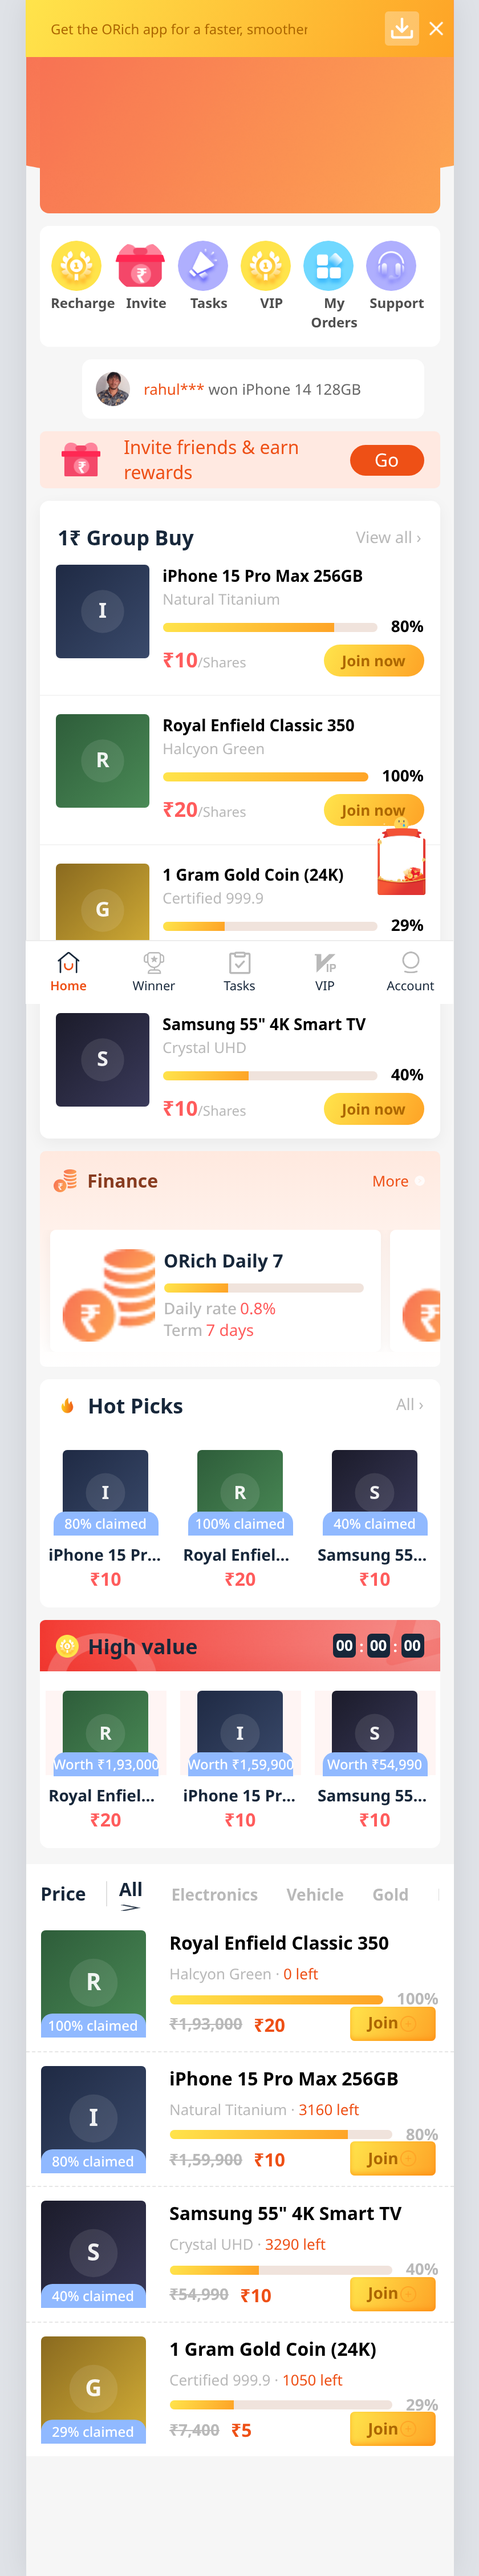
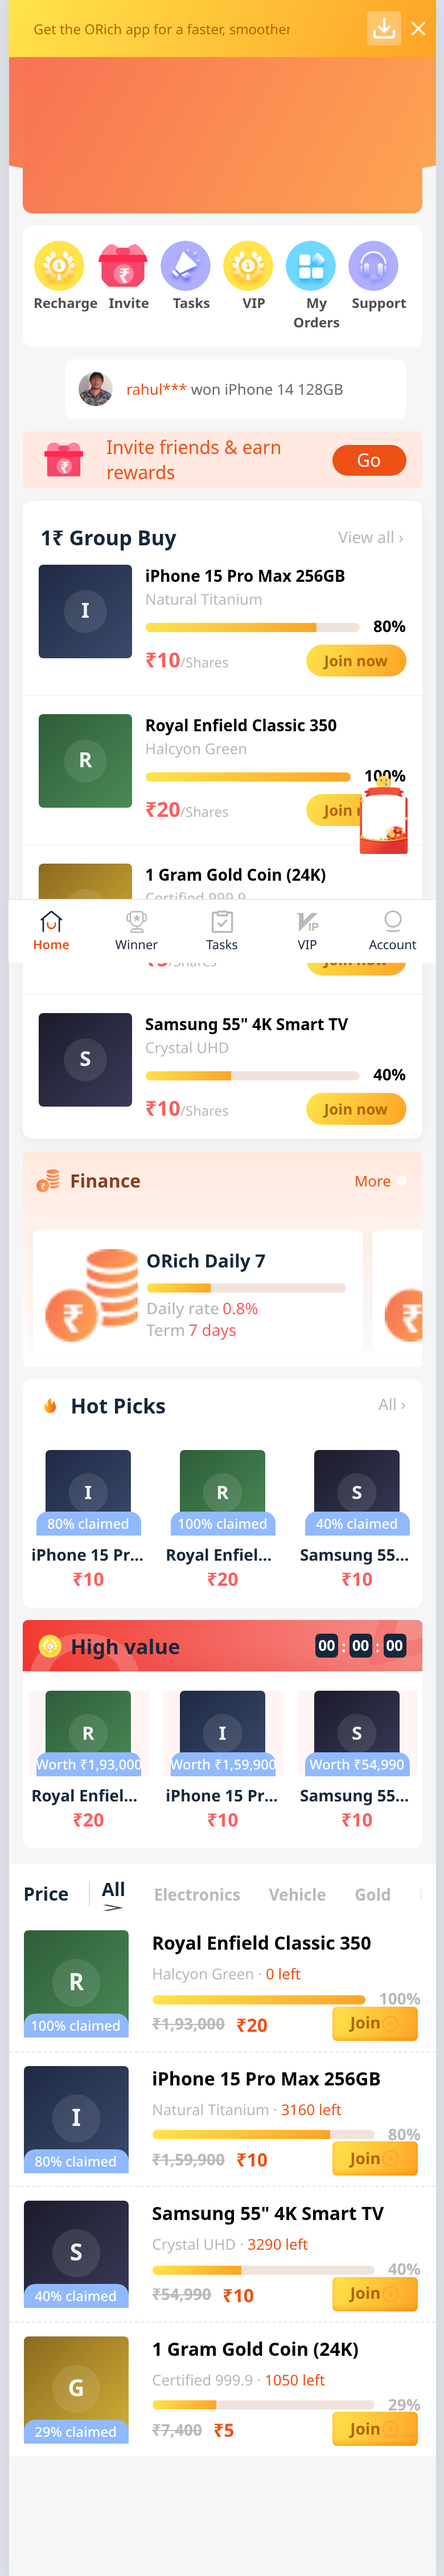
APK parity: in-app notifications center (push equivalent) with bell+unread+admin send, OTA version-update check, analytics event tracking with admin Events; wire track on login/join/recharge

diff --git a/app/src/i18n/index.js b/app/src/i18n/index.js
@@ -8,7 +8,7 @@ const en = {
   home: { notice: 'Notice', hot: 'Hot Picks', groupBuy: '1₹ Group Buy', latestWinners: 'Latest Winners', viewAll: 'View all', joined: 'joined', remaining: 'left' },
   product: { marketValue: 'Market value', perShare: 'Per share', progress: 'Progress', shares: 'Shares', total: 'Total', joinNow: 'Join now', ongoing: 'Ongoing', drawing: 'Drawing', done: 'Completed' },
   login: { title: 'Login', tips: 'Sign in or create your account', phone: 'Phone Number', phonePh: 'Enter phone number', code: 'Verification Code', codePh: 'Enter code', send: 'Send OTP', invite: 'Invite code (optional)', action: 'Login', terms: 'By continuing you agree to the', rules: 'Terms & Privacy Policy' },
-  account: { wallet: 'Wallet', withdraw: 'Withdraw', team: 'My Team', funding: 'Fund Records', finance: 'Finance', orders: 'My Orders', help: 'Help & FAQ', settings: 'Settings', about: 'About Us', service: 'Customer Service', invite: 'Invite Friends', signOut: 'Sign out', frozen: 'Frozen', waiting: 'Waiting', toconfirm: 'To Confirm', delivery: 'In Delivery', received: 'Received' },
+  account: { wallet: 'Wallet', withdraw: 'Withdraw', team: 'My Team', funding: 'Fund Records', finance: 'Finance', orders: 'My Orders', help: 'Help & FAQ', settings: 'Settings', about: 'About Us', service: 'Customer Service', invite: 'Invite Friends', notifications: 'Notifications', signOut: 'Sign out', frozen: 'Frozen', waiting: 'Waiting', toconfirm: 'To Confirm', delivery: 'In Delivery', received: 'Received' },
   recharge: { title: 'Recharge', choose: 'Choose amount', custom: 'Custom amount', pay: 'Pay now', success: 'Recharge successful' },
   winner: { title: 'Winners', mine: 'My Wins', code: 'Lucky code', shares: 'shares', congrats: 'Congratulations on winning!', signinMine: 'Please sign in to see your wins' },
   finance: { title: 'Finance', rate: 'Daily rate', days: 'Term', min: 'Min', invest: 'Invest', amount: 'Amount', confirm: 'Confirm investment', sub: 'Grow your balance with daily returns', day: 'day', projected: 'Projected return' },
@@ -25,7 +25,7 @@ const hi = {
   home: { notice: 'सूचना', hot: 'हॉट पिक्स', groupBuy: '₹1 ग्रुप बाय', latestWinners: 'नए विजेता', viewAll: 'सभी देखें', joined: 'शामिल', remaining: 'बाकी' },
   product: { marketValue: 'बाज़ार मूल्य', perShare: 'प्रति शेयर', progress: 'प्रगति', shares: 'शेयर', total: 'कुल', joinNow: 'अभी शामिल हों', ongoing: 'जारी', drawing: 'ड्रॉ', done: 'पूर्ण' },
   login: { title: 'लॉगिन', tips: 'साइन इन करें या खाता बनाएँ', phone: 'फ़ोन नंबर', phonePh: 'फ़ोन नंबर डालें', code: 'सत्यापन कोड', codePh: 'कोड डालें', send: 'OTP भेजें', invite: 'इनवाइट कोड (वैकल्पिक)', action: 'लॉगिन', terms: 'जारी रखने पर आप सहमत हैं', rules: 'नियम व गोपनीयता नीति' },
-  account: { wallet: 'वॉलेट', withdraw: 'निकासी', team: 'मेरी टीम', funding: 'फंड रिकॉर्ड', finance: 'फाइनेंस', orders: 'मेरे ऑर्डर', help: 'मदद व सवाल', settings: 'सेटिंग्स', about: 'हमारे बारे में', service: 'कस्टमर सेवा', invite: 'दोस्तों को बुलाएँ', signOut: 'साइन आउट', frozen: 'फ्रोज़न', waiting: 'प्रतीक्षा', toconfirm: 'पुष्टि', delivery: 'डिलीवरी', received: 'प्राप्त' },
+  account: { wallet: 'वॉलेट', withdraw: 'निकासी', team: 'मेरी टीम', funding: 'फंड रिकॉर्ड', finance: 'फाइनेंस', orders: 'मेरे ऑर्डर', help: 'मदद व सवाल', settings: 'सेटिंग्स', about: 'हमारे बारे में', service: 'कस्टमर सेवा', invite: 'दोस्तों को बुलाएँ', notifications: 'सूचनाएँ', signOut: 'साइन आउट', frozen: 'फ्रोज़न', waiting: 'प्रतीक्षा', toconfirm: 'पुष्टि', delivery: 'डिलीवरी', received: 'प्राप्त' },
   recharge: { title: 'रिचार्ज', choose: 'राशि चुनें', custom: 'कस्टम राशि', pay: 'अभी भुगतान करें', success: 'रिचार्ज सफल' },
   winner: { title: 'विजेता', mine: 'मेरी जीत', code: 'लकी कोड', shares: 'शेयर', congrats: 'जीतने की बधाई!', signinMine: 'अपनी जीत देखने के लिए साइन इन करें' },
   finance: { title: 'फाइनेंस', rate: 'दैनिक दर', days: 'अवधि', min: 'न्यूनतम', invest: 'निवेश', amount: 'राशि', confirm: 'निवेश की पुष्टि करें', sub: 'रोज़ के रिटर्न से बैलेंस बढ़ाएँ', day: 'दिन', projected: 'अनुमानित रिटर्न' },

diff --git a/server/index.js b/server/index.js
@@ -294,6 +294,28 @@ const userRoutes = {
   '/index/itemshare': (b) => ok({ link: 'https://orich.example/order/' + (b.id || ''), poster: store.img('goods/ing_Successfulpurchase.png') }),
   '/index/userinvitetop': () => ok({ list: inviteTop() }),
 
+  // ---------- APK parity: push notifications / OTA update / analytics ----------
+  '/index/notifications': (b, ctx) => {
+    const s = store.get(); const u = ctx && ctx.user && ctx.user.user;
+    const read = new Set((u && u.readNotifs) || []);
+    const list = s.notifications.map((n) => ({ ...n, read: read.has(n.id) }));
+    return ok({ list, unread: list.filter((n) => !n.read).length });
+  },
+  '/index/notifyread': (b, ctx) => {
+    const u = ctx.user.user; u.readNotifs = u.readNotifs || [];
+    if (b.id) { if (!u.readNotifs.includes(Number(b.id))) u.readNotifs.push(Number(b.id)); }
+    else { u.readNotifs = store.get().notifications.map((n) => n.id); }
+    store.save(); return ok({}, 'Marked read');
+  },
+  '/index/checkupdate': () => { const u = seed.appUpdate; return ok({ ...u, hasUpdate: u.latest !== u.version }); },
+  '/index/track': (b, ctx) => {
+    const s = store.get(); s.events = s.events || [];
+    const uid = ctx && ctx.user && ctx.user.user ? ctx.user.user.id : null;
+    s.events.push({ name: String(b.name || 'event'), props: b.props || {}, userId: uid, ts: Date.now() });
+    if (s.events.length > 2000) s.events = s.events.slice(-2000);
+    store.save(); return ok({ logged: true });
+  },
+
   // ---------- APK parity: authed records / edits / actions ----------
   '/index/userrebatelist': (b, ctx) => ok({ list: rebateList(ctx.user.user) }),
   '/index/userconsume': (b, ctx) => ok({ list: store.get().orders.filter((o) => o.userId === ctx.user.user.id && o.type !== 'recharge').reverse() }),
@@ -430,7 +452,7 @@ const USER_AUTH = new Set(['/index/useraccount', '/index/userbalance', '/index/a
   // APK-parity authed endpoints
   '/index/userrebatelist', '/index/userconsume', '/index/useritem', '/index/getUserAfs', '/index/editAfStatus',
   '/index/itemdetail', '/index/itemedit', '/index/itemdefaultaddr', '/index/addorderpay', '/index/joinactivity',
-  '/index/bankedit', '/index/addressedit', '/index/addresschangedefault']);
+  '/index/bankedit', '/index/addressedit', '/index/addresschangedefault', '/index/notifyread']);
 
 // ----------------------------- admin API -----------------------------
 const COLLECTIONS = { products: 'product', winners: 'winner', finances: 'finance', tasks: null, vipTiers: 'vip', luckyDraws: 'lucky' };
@@ -457,6 +479,8 @@ const adminRoutes = {
       withdraw: sum('withdraw').toFixed(2),
       pendingWithdraw: s.orders.filter((o) => o.type === 'withdraw' && o.status === 'pending').length,
       pendingRecharge: s.orders.filter((o) => o.type === 'recharge' && o.status === 'pending').length,
+      notifications: (s.notifications || []).length,
+      events: (s.events || []).length,
       settings: s.settings,
     });
   },
@@ -522,6 +546,17 @@ const adminRoutes = {
     return ok({ order: o }, 'Order updated');
   },
   'POST /orders/delete': (b) => { const s = store.get(); s.orders = s.orders.filter((x) => x.id !== Number(b.id)); store.save(); return ok({}, 'Order deleted'); },
+  'POST /notify/send': (b) => {
+    const s = store.get();
+    const n = { id: store.nextId('notification'), type: b.type || 'system', title: b.title || 'Notice', body: b.body || '', date: new Date().toISOString().slice(0, 16).replace('T', ' ') };
+    s.notifications.unshift(n); store.save();
+    return ok({ notification: n }, 'Notification sent');
+  },
+  'GET /events': () => {
+    const s = store.get(); const ev = s.events || [];
+    const counts = {}; ev.forEach((e) => { counts[e.name] = (counts[e.name] || 0) + 1; });
+    return ok({ total: ev.length, counts, recent: ev.slice(-30).reverse() });
+  },
   'GET /orders': (b) => {
     let list = store.get().orders;
     if (b.type) list = list.filter((o) => o.type === b.type);

diff --git a/app/src/views/Notifications.vue b/app/src/views/Notifications.vue
@@ -1,0 +1,69 @@
+<script setup>
+import { onMounted, ref } from 'vue';
+import NavBar from '../components/NavBar.vue';
+import { api } from '../api/client';
+import { useAuth } from '../stores/auth';
+import { useToast } from '../components/useToast';
+
+const auth = useAuth();
+const { toast } = useToast();
+const list = ref([]);
+const unread = ref(0);
+
+const ICON = {
+  winner: '/static/image/home/icon_Winner.png',
+  promo: '/static/image/home/icon_Promotion.png',
+  order: '/static/image/home/icon_MyOrders.png',
+  system: '/static/image/home/icon_Support.png',
+};
+
+async function load() {
+  const d = await api.notifications();
+  list.value = d.list || [];
+  unread.value = d.unread || 0;
+}
+onMounted(load);
+
+async function open(n) {
+  if (!n.read && auth.isLoggedIn) {
+    try { await api.notifyRead(n.id); n.read = true; unread.value = Math.max(0, unread.value - 1); } catch { /* ignore */ }
+  }
+}
+async function readAll() {
+  if (!auth.isLoggedIn) return toast('Please sign in');
+  try { await api.notifyRead(); await load(); toast('All marked read'); } catch (e) { toast(e.message); }
+}
+</script>
+
+<template>
+  <div class="notis">
+    <NavBar title="Notifications" :right="unread ? 'Read all' : ''" @right="readAll" />
+    <div class="list">
+      <div v-for="n in list" :key="n.id" class="item" :class="{ unread: !n.read }" @click="open(n)">
+        <div class="ic"><img :src="ICON[n.type] || ICON.system" alt="" /><i v-if="!n.read" class="dot"></i></div>
+        <div class="body">
+          <div class="top"><span class="title">{{ n.title }}</span><span class="date">{{ n.date }}</span></div>
+          <div class="text">{{ n.body }}</div>
+        </div>
+      </div>
+      <div v-if="!list.length" class="empty"><img src="/static/image/nodata.png" alt="" /><p>No notifications</p></div>
+    </div>
+  </div>
+</template>
+
+<style scoped>
+.notis { min-height: 100vh; background: #f6f6f6; }
+.list { padding: 8px 0; }
+.item { display: flex; gap: 12px; padding: 14px 16px; background: #fff; margin-bottom: 8px; }
+.item.unread { background: #fffaf7; }
+.ic { position: relative; width: 42px; height: 42px; flex-shrink: 0; border-radius: 50%; background: #fdeee6; display: flex; align-items: center; justify-content: center; }
+.ic img { width: 24px; height: 24px; object-fit: contain; }
+.ic .dot { position: absolute; top: 0; right: 0; width: 9px; height: 9px; border-radius: 50%; background: #ff5c5c; border: 1.5px solid #fff; }
+.body { flex: 1; min-width: 0; }
+.top { display: flex; align-items: center; justify-content: space-between; }
+.title { font-size: 15px; font-weight: 700; color: #17273a; }
+.date { font-size: 12px; color: #b9b9b9; flex-shrink: 0; margin-left: 8px; }
+.text { margin-top: 5px; font-size: 13px; line-height: 1.5; color: #686868; }
+.empty { text-align: center; padding: 60px 0; color: #b9b9b9; }
+.empty img { width: 90px; margin: 0 auto 10px; opacity: .8; }
+</style>

diff --git a/app/src/views/Home.vue b/app/src/views/Home.vue
@@ -9,6 +9,7 @@ const { t, locale } = useI18n();
 const data = ref(null);
 const loading = ref(true);
 const showDownload = ref(true);
+const unread = ref(0);
 
 // category tabs for the bottom list come from the API (data.categories).
 const cats = computed(() => (data.value?.categories || []));
@@ -51,6 +52,8 @@ onMounted(async () => {
   try {
     data.value = await api.home();
   } finally { loading.value = false; }
+  try { unread.value = (await api.notifications()).unread || 0; } catch { /* ignore */ }
+  api.track('home_view');
   timer = setInterval(() => { now.value = Date.now(); }, 1000);
 });
 onUnmounted(() => { if (timer) clearInterval(timer); });
@@ -78,6 +81,7 @@ const inr = (n) => Number(n).toLocaleString('en-IN');
 
     <div class="nav-logo">
       <span class="logo-badge">O</span><span class="logo-word">ORich</span>
+      <span class="home-bell" @click="router.push('/notifications')">🔔<i v-if="unread" class="badge">{{ unread > 99 ? '99+' : unread }}</i></span>
       <span class="home-lang" @click="toggleLang">{{ locale === 'en' ? 'हिं' : 'EN' }}</span>
     </div>
 
@@ -258,6 +262,8 @@ const inr = (n) => Number(n).toLocaleString('en-IN');
 .logo-badge { width: 26px; height: 26px; border-radius: 7px; background: #ee5016; color: #fff; font-weight: 800; font-size: 17px; display: flex; align-items: center; justify-content: center; }
 .logo-word { font-size: 19px; font-weight: 800; color: #fff; letter-spacing: 0.5px; }
 .home-lang { position: absolute; right: 15px; background: rgba(255,255,255,0.25); color: #fff; border-radius: 12px; padding: 3px 10px; font-size: 12px; }
+.home-bell { position: absolute; right: 56px; font-size: 18px; line-height: 1; cursor: pointer; }
+.home-bell .badge { position: absolute; top: -6px; right: -8px; min-width: 15px; height: 15px; padding: 0 3px; border-radius: 8px; background: #ff5c5c; color: #fff; font-size: 10px; line-height: 15px; text-align: center; font-style: normal; }
 .loading { position: relative; z-index: 2; text-align: center; color: #fff; padding: 40px; }
 
 /* download top bar */

diff --git a/server/db.js b/server/db.js
@@ -157,6 +157,16 @@ const games = [
   { id: 2, name: 'Lucky Dice', cover: '/static/products/cash.svg', ticket: 5 },
 ];
 
+// Push-style in-app notifications (GeTui/message parity). `read` is tracked per-user.
+const notifications = [
+  { id: 1, type: 'winner', title: 'Lucky draw result', body: 'rahul*** just won an iPhone 14 128GB. The next draw closes soon — join now!', date: '2026-11-10 20:14' },
+  { id: 2, type: 'promo', title: 'VIP Gold -20% today', body: 'Activate Gold VIP today and get 20% off plus a higher daily bonus.', date: '2026-11-10 09:00' },
+  { id: 3, type: 'order', title: 'Order update', body: 'Your group-buy entry is confirmed. We will notify you when the draw happens.', date: '2026-11-09 18:30' },
+  { id: 4, type: 'system', title: 'Welcome to ORich', body: 'Recharge your wallet, join 1₹ group-buys and win big. Invite friends to earn commission.', date: '2026-11-08 12:00' },
+];
+// App version / OTA update info (DCloud OTA parity).
+const appUpdate = { version: '2.1.4', latest: '2.1.4', url: 'https://orich.in/', notes: 'Bug fixes and performance improvements.' };
+
 // A single demo account keyed by token.
 function freshUser() {
   return {
@@ -173,4 +183,4 @@ function freshUser() {
   };
 }
 
-module.exports = { products, winners, finances, rechargeOptions, tasks, vipTiers, vipConfig, luckyDraws, prizes, games, categories, helpItems, inviteRules, payChannels, withdrawConfig, freshUser, img };
+module.exports = { products, winners, finances, rechargeOptions, tasks, vipTiers, vipConfig, luckyDraws, prizes, games, categories, helpItems, inviteRules, payChannels, withdrawConfig, notifications, appUpdate, freshUser, img };

diff --git a/app/src/views/Setting.vue b/app/src/views/Setting.vue
@@ -31,6 +31,13 @@ onMounted(async () => {
 
 function clearCache() { cache.value = '0 B'; toast('Cache cleared'); }
 
+async function checkUpdate() {
+  try {
+    const u = await api.checkUpdate();
+    toast(u.hasUpdate ? ('Update available: v' + u.latest) : ('You are on the latest version (v' + u.version + ')'));
+  } catch (e) { toast(e.message); }
+}
+
 async function signOut() {
   try { await api.logout(); } catch { /* ignore */ }
   auth.setToken('');
@@ -77,9 +84,9 @@ async function signOut() {
         <span class="name_info" style="float:right;margin-right:30px">{{ langLabel }}</span>
       </div>
 
-      <div class="check">
-        <span class="check_updates">Version</span>
-        <span class="name_info" style="float:right;margin-right:30px">{{ version }}</span>
+      <div class="check" @click="checkUpdate">
+        <span class="check_updates">Version Update</span>
+        <span class="name_info" style="float:right;margin-right:30px">{{ version }} ›</span>
       </div>
 
       <div class="about" @click="router.push('/aboutus')">

diff --git a/app/src/router/index.js b/app/src/router/index.js
@@ -30,6 +30,7 @@ const routes = [
   { path: '/vip', component: () => import('../views/Vip.vue'), meta: { auth: true, tab: true } },
   { path: '/invitation', component: () => import('../views/Invitation.vue'), meta: { auth: true } },
   { path: '/myshare', component: () => import('../views/MyShare.vue'), meta: { auth: true } },
+  { path: '/notifications', component: () => import('../views/Notifications.vue') },
   { path: '/prize', component: () => import('../views/Prize.vue') },
   { path: '/game', component: () => import('../views/Game.vue'), meta: { auth: true } },
   { path: '/address', component: () => import('../views/Address.vue'), meta: { auth: true } },

diff --git a/app/src/views/Account.vue b/app/src/views/Account.vue
@@ -21,6 +21,7 @@ const menu = [
   { icon: img + 'icon_myteam.png', label: 'account.team', to: '/team' },
   { icon: img + 'icon_Fundingrecords.png', label: 'account.funding', to: '/funding' },
   { icon: img + 'icon_Invitationrecords.png', label: 'account.invite', to: '/invitation' },
+  { icon: img + 'icon_Waiting.png', label: 'account.notifications', to: '/notifications' },
   { icon: img + 'icon_Myshare.png', label: 'winner.mine', to: '/myshare' },
   { icon: img + 'icon_Earnrewards.png', label: 'vip.title', to: '/vip' },
   { icon: img + 'icon_AboutUs.png', label: 'account.about', to: '/aboutus' },

diff --git a/app/src/api/client.js b/app/src/api/client.js
@@ -104,4 +104,9 @@ export const api = {
   bankEdit: (payload) => call('/index/bankedit', payload),
   addressEdit: (payload) => call('/index/addressedit', payload),
   addressSetDefault: (id) => call('/index/addresschangedefault', { id }),
+  // notifications / OTA / analytics
+  notifications: () => call('/index/notifications'),
+  notifyRead: (id) => call('/index/notifyread', id ? { id } : {}),
+  checkUpdate: () => call('/index/checkupdate'),
+  track: (name, props) => call('/index/track', { name, props }).catch(() => {}),
 };

diff --git a/admin/src/App.vue b/admin/src/App.vue
@@ -55,6 +55,9 @@ const COLLECTIONS = {
   helpItems: { label: 'FAQ', fields: [
     { k: 'category', t: 'text' }, { k: 'q', t: 'text' }, { k: 'a', t: 'text' }, { k: 'icon', t: 'text' },
   ] },
+  notifications: { label: 'Notifications', fields: [
+    { k: 'type', t: 'select', opts: ['winner', 'promo', 'order', 'system'] }, { k: 'title', t: 'text' }, { k: 'body', t: 'text' }, { k: 'date', t: 'text' },
+  ] },
 };
 
 const nav = [

diff --git a/server/store.js b/server/store.js
@@ -20,6 +20,8 @@ function freshState() {
     prizes: seed.prizes.map((p) => ({ ...p })),
     games: seed.games.map((g) => ({ ...g })),
     helpItems: seed.helpItems.map((h) => ({ ...h })),
+    notifications: seed.notifications.map((n) => ({ ...n })),
+    events: [],   // analytics events (AppsFlyer/Firebase parity)
     rechargeOptions: [...seed.rechargeOptions],
     settings: {
       name: 'ORich',

diff --git a/app/src/views/GoodsDetail.vue b/app/src/views/GoodsDetail.vue
@@ -62,6 +62,7 @@ async function join() {
   busy.value = true;
   try {
     const data = await api.join(item.value.id, shares.value);
+    api.track('join_group_buy', { id: item.value.id, shares: shares.value });
     toast(t('common.join') + ' ✓ · ₹' + data.balance);
     load(await api.product(route.params.id));
     auth.refresh();
